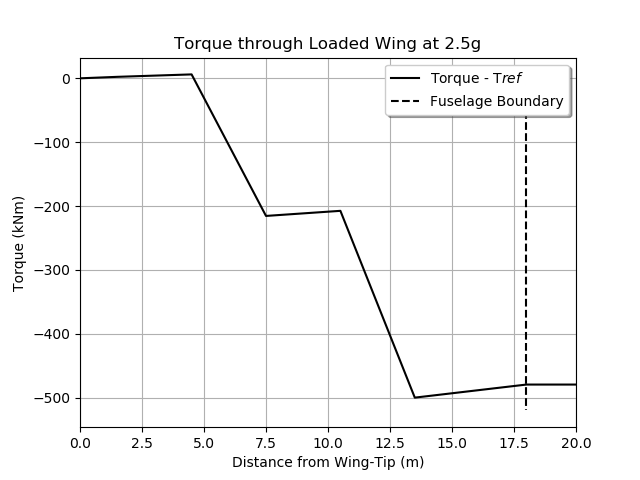
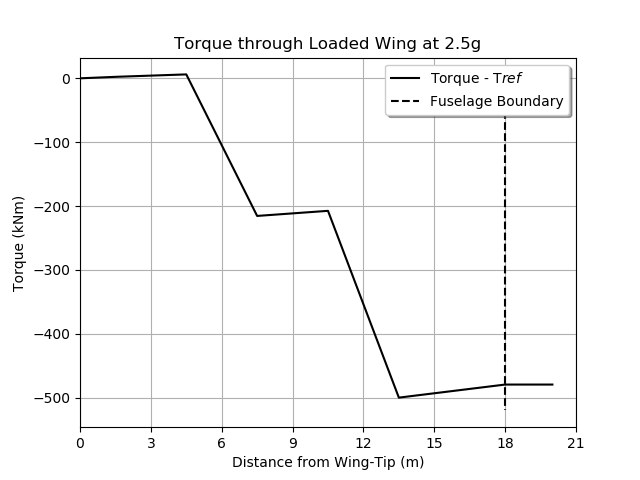
Fix x axis and boundary etc

diff --git a/extraGraphs.py b/extraGraphs.py
@@ -8,9 +8,7 @@ tref = [0, 2.312783988, 6.13595752, -215.4845505, -207.5078057, -499.9967706, -4
 wingtipdistance = [0, 1.5, 4.5, 7.5, 10.5, 13.5, 16.5, 18, 18, 20]
 
 srefLastGrad = (sref[-1]-sref[-2])/(wingtipdistance[-4]-wingtipdistance[-5])
-print(srefLastGrad)
 srefEnd6 = sref[-1] + (wingtipdistance[-3] - wingtipdistance[-4])*srefLastGrad
-print(srefEnd6)
 sref.append(srefEnd6)
 sref.append(0)
 sref.append(0)
@@ -31,9 +29,10 @@ tref.append(trefEnd6)
 
 plt.figure(1)
 plt.plot(wingtipdistance, sref, 'k-', label='Shear Force - S$ref$')
-plt.plot([18,18], [0, 375], 'k--', label='Fuselage Boundary')
+plt.plot([18,18], [0, 435], 'k--', label='Fuselage Boundary')
 plt.xlabel('Distance from Wing-Tip (m)')
 plt.xlim([0, wingtipdistance[-1]])
+plt.xticks(np.arange(0, 22, 3))
 plt.ylim([0, max(sref)+30])
 plt.ylabel('Shear Force (kN)')
 plt.legend(loc='upper left', shadow=True)
@@ -43,9 +42,10 @@ plt.savefig('sref1.png')
 
 plt.figure(2)
 plt.plot(wingtipdistance, mref, 'k-', label='Bending Moment Force - M$ref$')
-plt.plot([18,18], [0, 3100], 'k--', label='Fuselage Boundary')
+plt.plot([18,18], [0, 3640], 'k--', label='Fuselage Boundary')
 plt.xlabel('Distance from Wing-Tip (m)')
 plt.xlim([0, wingtipdistance[-1]])
+plt.xticks(np.arange(0, 22, 3))
 plt.ylim([0, max(mref)+160])
 plt.ylabel('Bending Moment (kNm)')
 plt.legend(loc='upper left', shadow=True)
@@ -58,6 +58,7 @@ plt.plot(wingtipdistance, tref, 'k-', label='Torque - T$ref$')
 plt.plot([18,18], [0, -520], 'k--', label='Fuselage Boundary')
 plt.xlim([0, wingtipdistance[-1]])
 plt.xlabel('Distance from Wing-Tip (m)')
+plt.xticks(np.arange(0, 22, 3))
 plt.ylabel('Torque (kNm)')
 plt.legend(loc='upper right', shadow=True)
 plt.grid(True)
